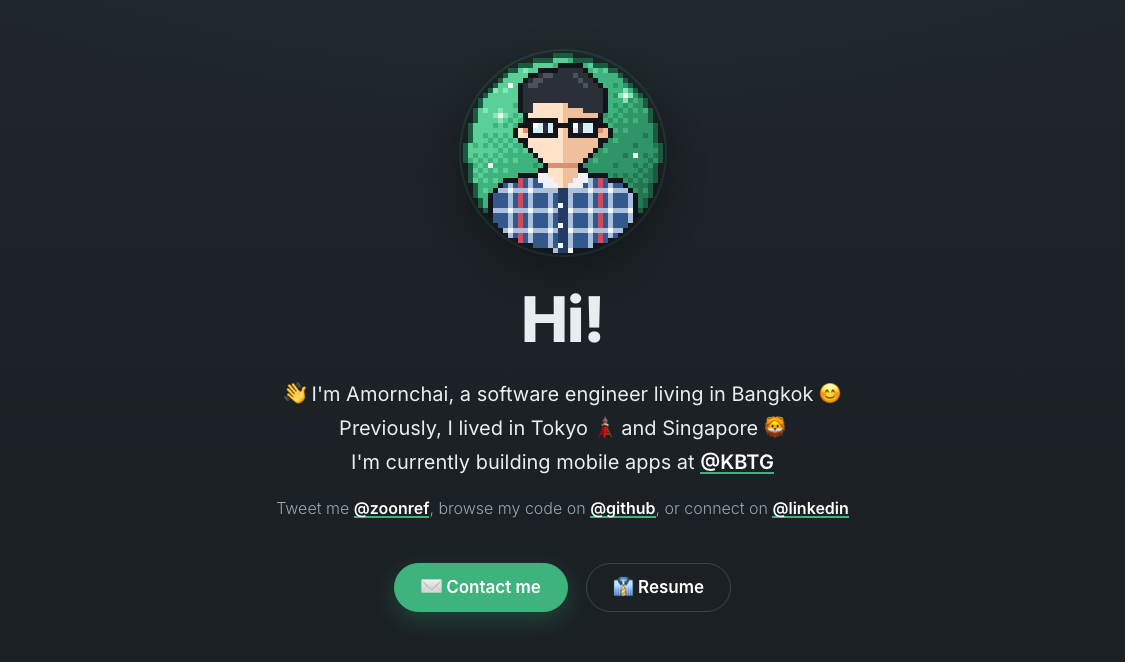
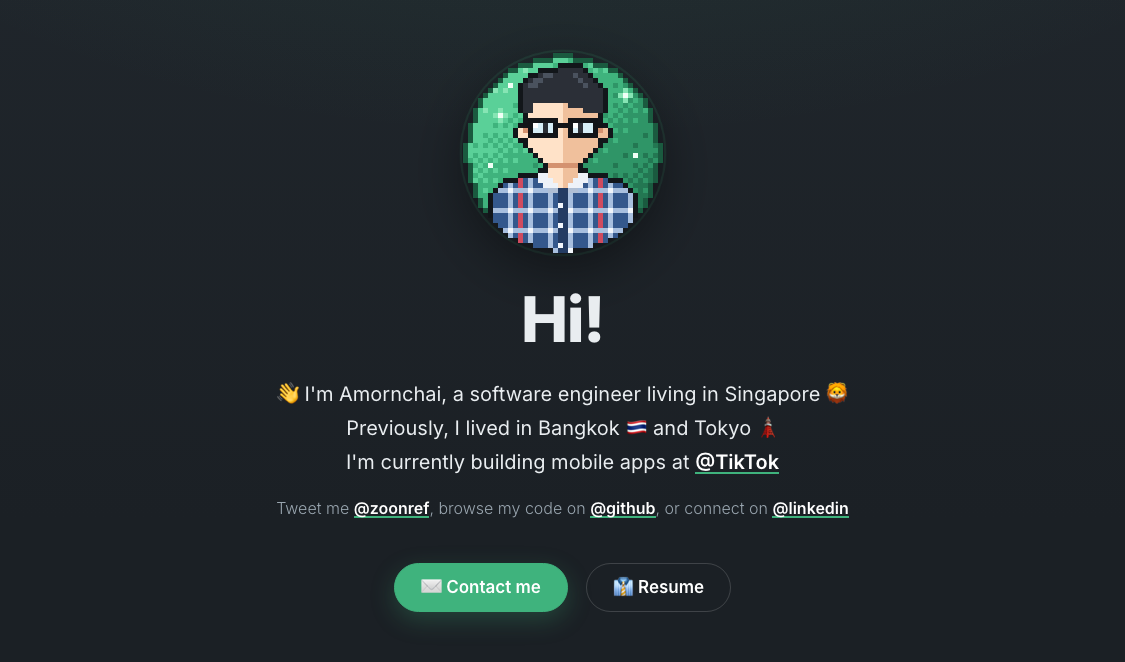
Update bio: now at TikTok Singapore

Changed region(s): [[0.2489, 0.574, 0.7778, 0.7251]]

diff --git a/index.html b/index.html
@@ -18,9 +18,9 @@ thumbnail: /img/preview/preview.png
     </div>
   </h1>
   <p class="lead">
-    👋 I'm Amornchai, a software engineer living in Bangkok 😊
-    <br/>Previously, I lived in Tokyo 🗼 and Singapore 🦁
-    <br/>I'm currently building mobile apps at <a href="https://www.kbtg.tech/">@KBTG</a>
+    👋 I'm Amornchai, a software engineer living in Singapore 🦁
+    <br/>Previously, I lived in Bangkok 🇹🇭 and Tokyo 🗼
+    <br/>I'm currently building mobile apps at <a href="https://www.tiktok.com/">@TikTok</a>
   </p>
   <p class="hero-social">
     Tweet me <a href="https://twitter.com/zoonref">@zoonref</a>,
